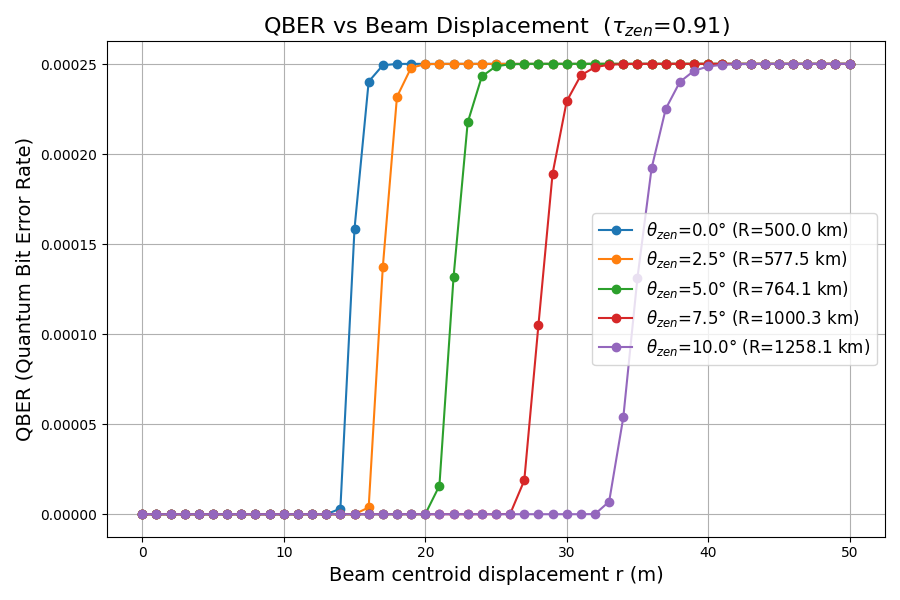
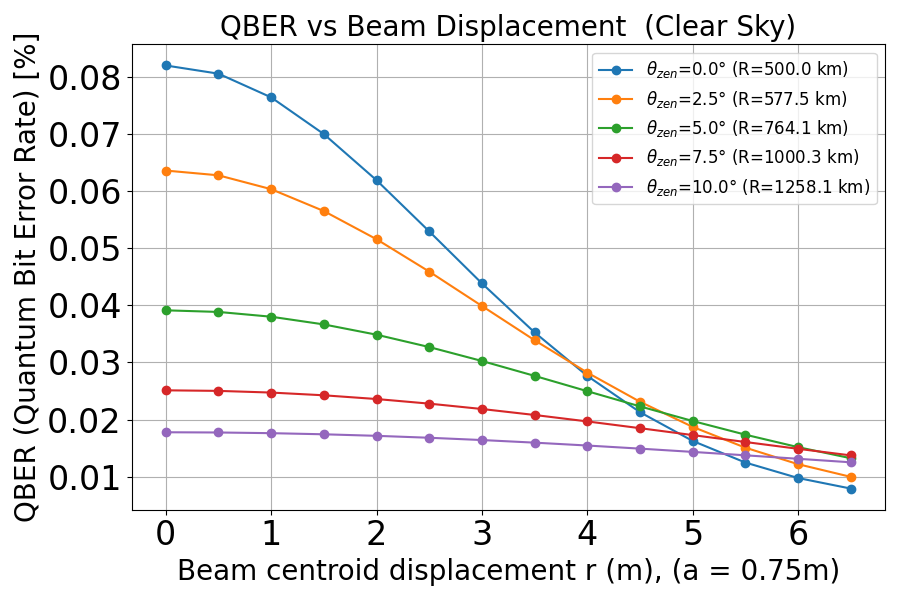
WIP:simulate the qber each displacements

diff --git a/BB84/SimulationResult/Circle_beam/QBER/qber_displacement.py b/BB84/SimulationResult/Circle_beam/QBER/qber_displacement.py
@@ -19,7 +19,6 @@ from qber import qber_loss
     #======================#
 tau_zen = 0.91
 
-
 #=======================================================#
 # eta_b parameters (Pointing)
 #=======================================================#
@@ -46,22 +45,20 @@ t = T * 0.0             # Time in orbit of the satellite (the time elapsed when 
 # QBER parameters
 #=======================================================#
     #=====================#
-    # n_s   : average numher of photon
-    # n_D   : dark-current-equivalent averrage photon number
-    # eta   : APD (single-photon avalanche photodiode) detection efficiency
-    # n_B   : background photons per polarization
-    # n_N   : the average number of noise photon reaching each detector
-    # gamma : the fraction of transmmited photon
+    # n_s   : average numher of photon from Alice
+    # e_0   : the error rate of the background
+    # Y_0   : the background rate which includes the detector dark count and other background contributions
+    # e_dec : the probability that a photon hits the erroneous detector
     #======================#
 n_s = 10e8
-n_D = math.pow(10, -6)
-eta = 0.5  
-n_B = math.pow(10, -3)
-n_N = n_B/2 + n_D
+e_0 = 0.5
+Y_0 = 10e-5
+e_dec = 0.01
+
 
 
 def main():
-    r = np.arange(0, 51, 1) 
+    r = np.arange(0, 7, 0.5) 
 
     theta_min = math.radians(0)
     theta_max = math.radians(10)
@@ -86,7 +83,7 @@ def main():
         gamma = [eta_b_i * eta_t for eta_b_i in eta_b]
 
         # QBER = qber(gamma)
-        qber_values = [qber_loss(eta, n_s, n_N, gamma_i) for gamma_i in gamma]
+        qber_values = [qber_loss(gamma_i) * 100 for gamma_i in gamma]
 
         # QBERの値を表示
         print(f"\n--- θ_p = {theta_deg:.2f}° (R={R_t/1e3:.2f} km, eta_t={eta_t:.4f}) ---")
@@ -96,12 +93,15 @@ def main():
         # グラフ描画
         plt.plot(r, qber_values, marker='o', label=fr'$\theta_{{zen}}$={theta_deg:.1f}° (R={R_t/1e3:.1f} km)')
 
-    plt.xlabel(f"Beam centroid displacement r (m), (a = {a}m)", fontsize=14)
-    plt.ylabel(r"QBER (Quantum Bit Error Rate)", fontsize=14)
-    plt.title(fr"QBER vs Beam Displacement  ($\tau_{{zen}}$={tau_zen})", fontsize=16)
+    plt.xlabel(f"Beam centroid displacement r (m), (a = {a}m)", fontsize=20)
+    plt.ylabel(r"QBER (Quantum Bit Error Rate) [%]", fontsize=20)
+    plt.title(fr"QBER vs Beam Displacement  (Clear Sky)", fontsize=20)
     plt.grid(True)
     plt.legend(fontsize=12)
+    plt.xticks(fontsize=24)
+    plt.yticks(fontsize=24)
     plt.tight_layout()
+
 
     output_path = os.path.join(os.path.dirname(__file__), "qber_vs_r_with_tauzen.png")
     plt.savefig(output_path)
